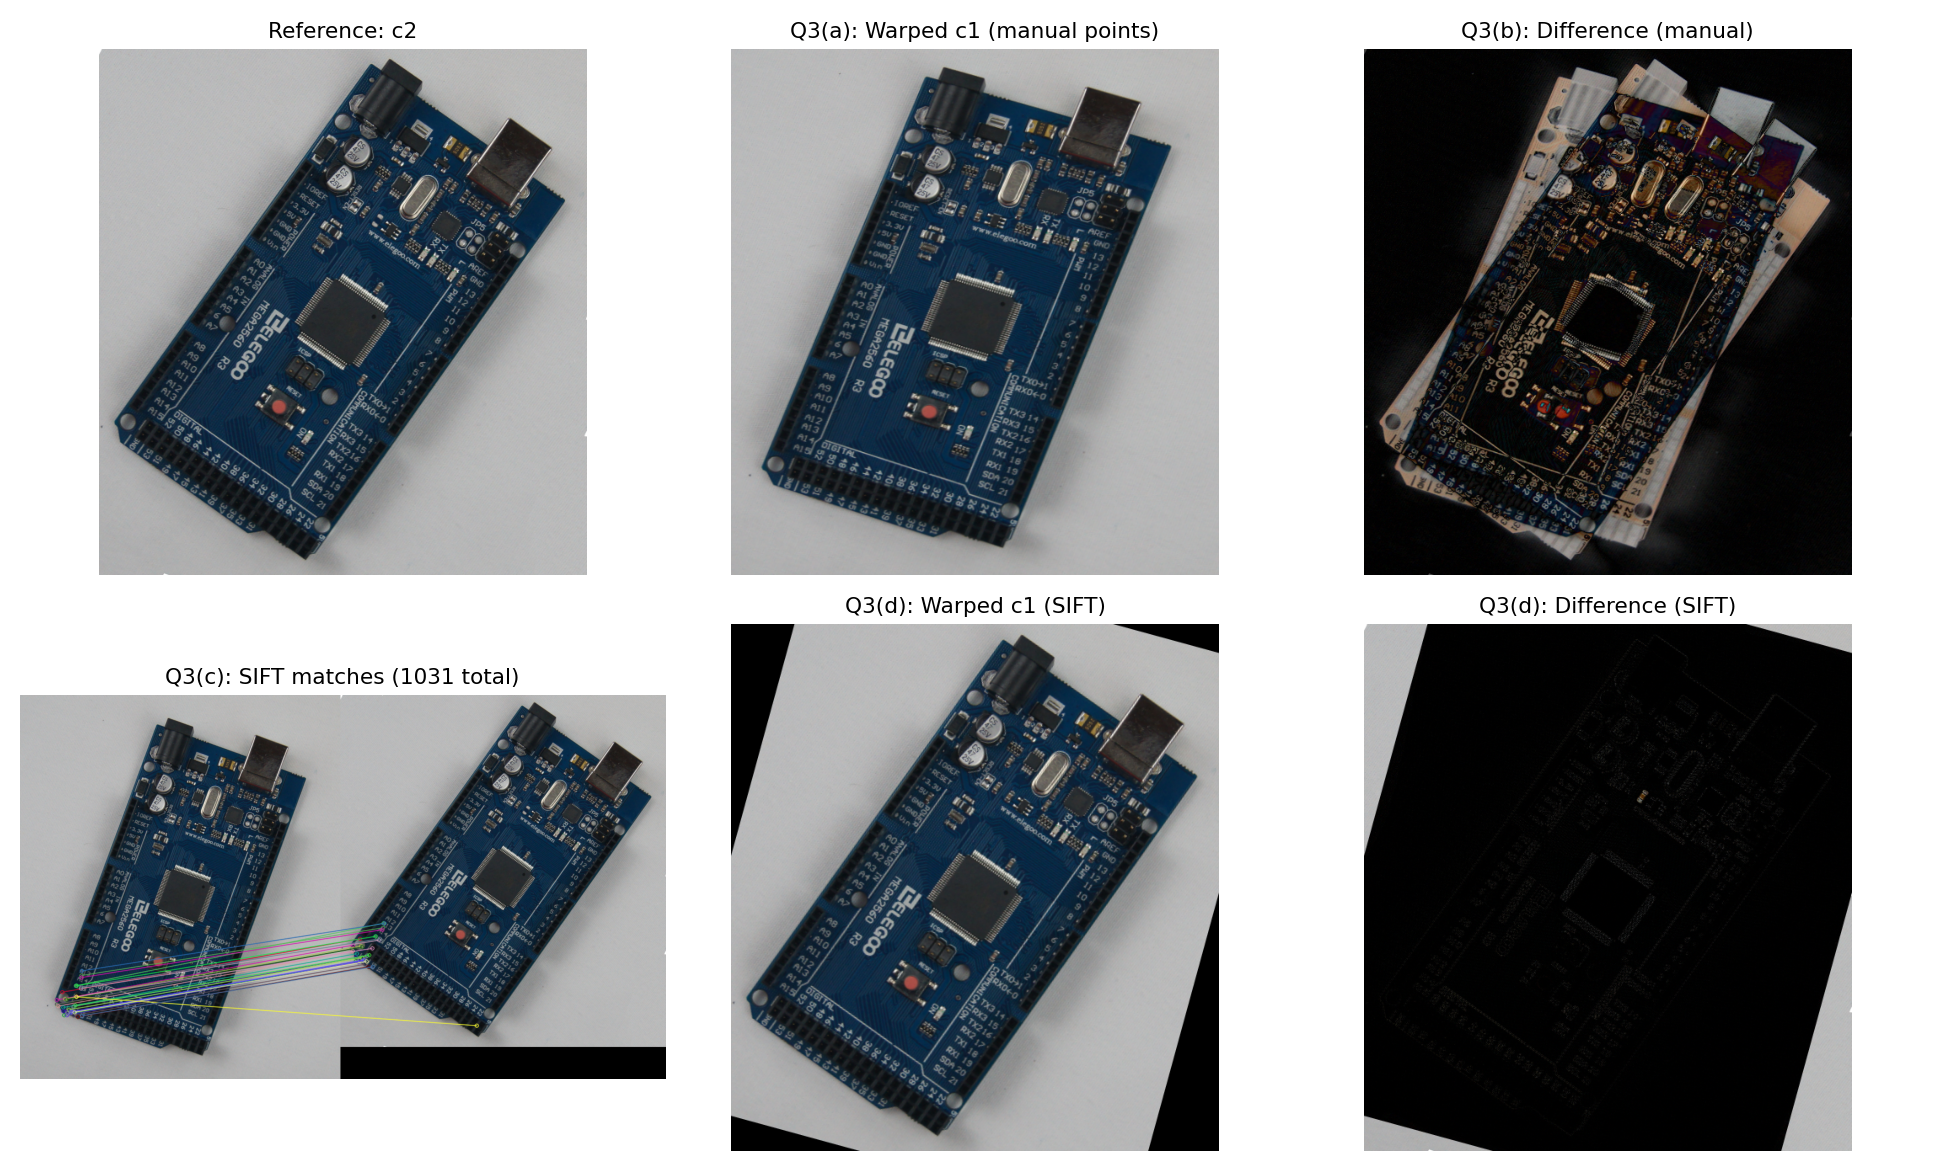
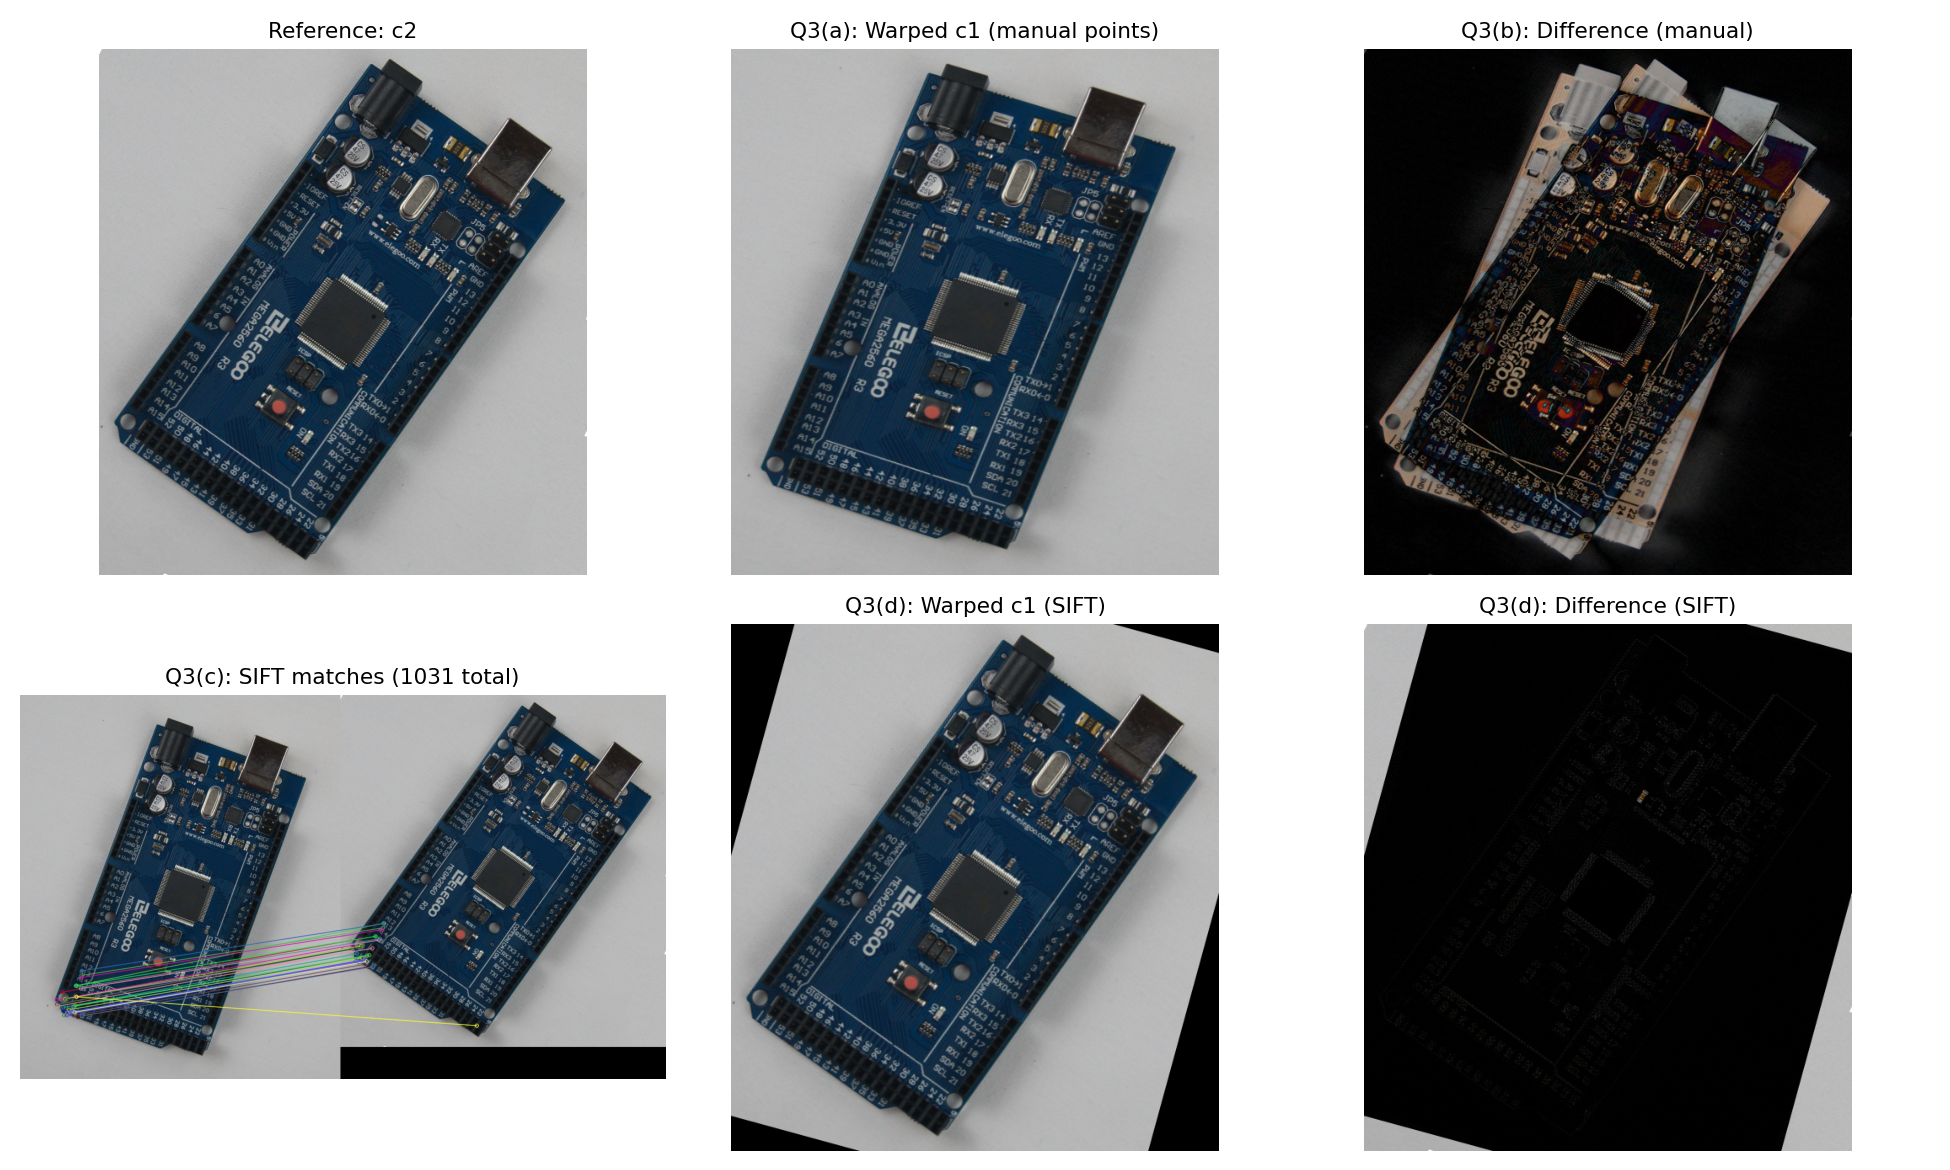
feat(q3): update point coordinates for circuit board features; add new output images

Changed region(s): [[0.4308, 0.0615, 0.6154, 0.4615], [0.7385, 0.0615, 0.9231, 0.4615], [0.7385, 0.3692, 0.7692, 0.4]]

diff --git a/src/q3_circuit_board.py b/src/q3_circuit_board.py
@@ -20,21 +20,21 @@ im2 = cv2.imread('a2_images/c2.jpg', cv2.IMREAD_REDUCED_COLOR_4)
 # TL corner hole, USB connector, BR corner hole, BL corner hole, DC jack, red LED
 
 pts1 = np.array([
-    [ 67,  38],
-    [460,  85],
-    [480, 600],
-    [ 55, 590],
-    [192,  58],
-    [278, 372],
+    [108, 108],   # TL corner hole
+    [390,  72],   # USB connector base
+    [470, 598],   # BR corner hole
+    [ 58, 602],   # BL corner hole
+    [148,  72],   # DC jack base
+    [192, 460],   # red LED
 ], dtype=np.float32)
 
 pts2 = np.array([
-    [ 50,  22],
-    [470,  60],
-    [500, 550],
-    [ 30, 545],
-    [170,  42],
-    [262, 337],
+    [ 90,  82],   # TL corner hole
+    [395,  48],   # USB connector base
+    [492, 552],   # BR corner hole
+    [ 32, 555],   # BL corner hole
+    [128,  48],   # DC jack base
+    [175, 422],   # red LED
 ], dtype=np.float32)
 
 h, w = im2.shape[:2]
